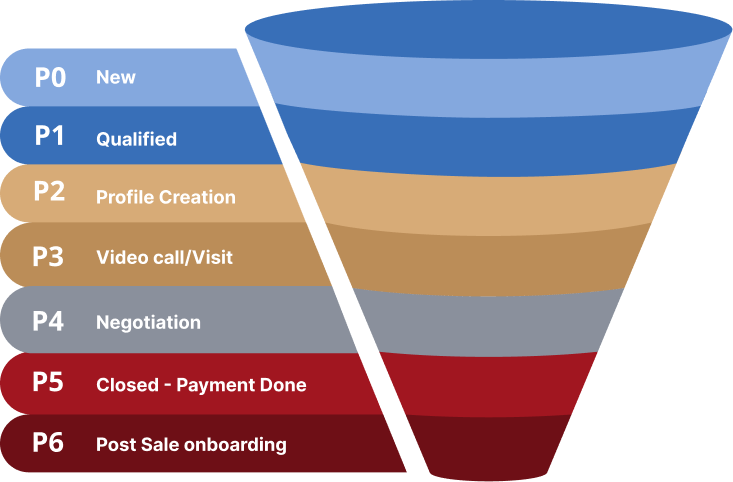
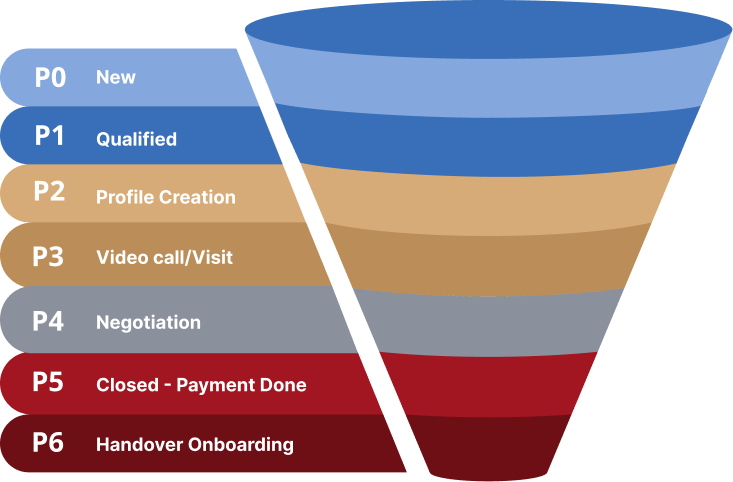
done

Changed region(s): [[0.1201, 0.9025, 0.4202, 0.9647]]

diff --git a/frontend/src/pages/PipelineBoard.jsx b/frontend/src/pages/PipelineBoard.jsx
@@ -44,7 +44,7 @@ const PIPELINE_STAGES = [
   { id: "P3", label: "Video Call/Visit",        color: "#7C3AED" },
   { id: "P4", label: "Negotiation",             color: "#6366F1" },
   { id: "P5", label: "Closed",                  color: "#16A34A" },
-  { id: "P6", label: "Closed Sale Onboarding",  color: "#EAB308" },
+  { id: "P6", label: "Handover Onboarding",  color: "#EAB308" },
 ];
 
 const TEMPERATURE_STYLES = {
